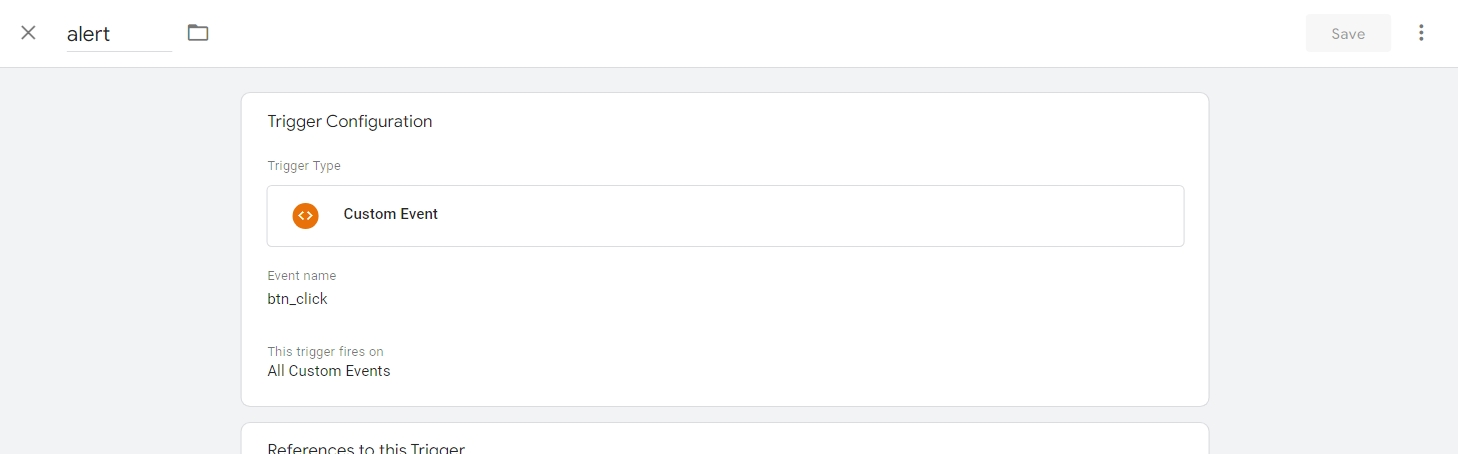
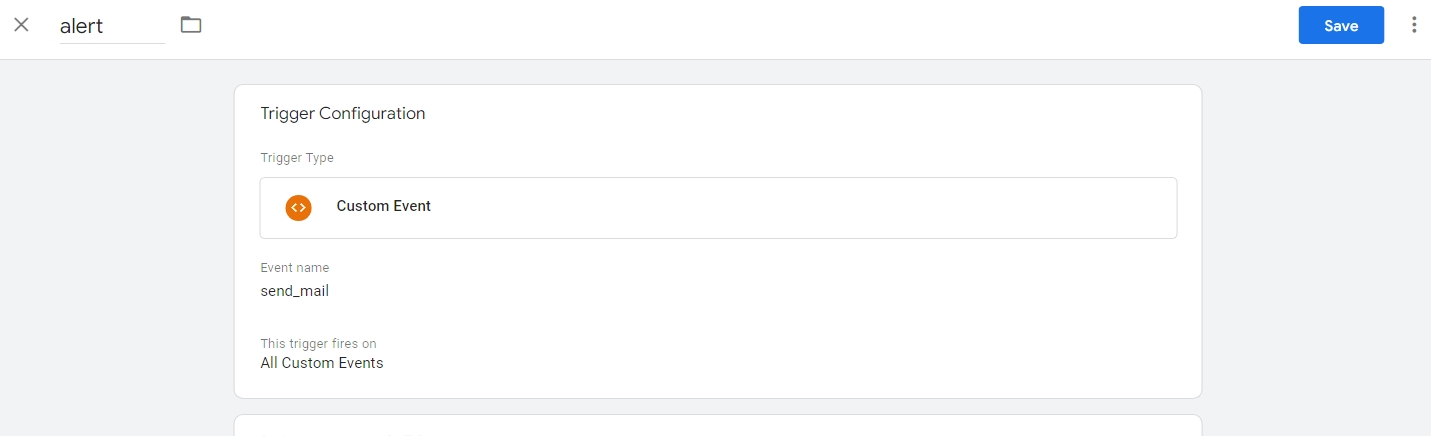
updated

diff --git a/docs/building-apps-guides/google-tag-manger.md b/docs/building-apps-guides/google-tag-manger.md
@@ -1,6 +1,6 @@
 ---
 sidebar_position: 1
-title: Data Insights with DronaHQ and Google Tag Manager Integration
+title: Google Tag Manager Integration
 ---
 
 import Image from '@site/src/components/Image'; import VersionedLink from '@site/src/components/VersionedLink'; import
@@ -8,9 +8,9 @@ Thumbnail from '@site/src/components/Thumbnail';
 
 In today's data-driven world, understanding user behavior is crucial for success. For low-code app developers using DronaHQ, integrating with Google Tag Manager (GTM) unlocks a treasure trove of user insights. This dynamic duo empowers you to track user interactions, optimize app experiences, and gain valuable data for informed decision-making.
 
-## Getting Started
 
-### Creating account in Google Tag Manger
+
+## Creating account in Google Tag Manger
 
 1. Visit [Google Tag Manager](https://tagmanager.google.com/) and Sign in with your Google account.
 2. If you're new to GTM, you'll see a button to `Create Account.` Click that.
@@ -31,7 +31,7 @@ That's it! Once you have your account and container set up, you can start adding
 </figure>
 
 
-### Integrating Google Tag Manager with DronaHQ Apps 
+## Integrating Google Tag Manager with DronaHQ Apps 
 
 Adding Google Tag Manager (GTM) to your DronaHQ app is a straightforward process:
 
@@ -45,16 +45,64 @@ Adding Google Tag Manager (GTM) to your DronaHQ app is a straightforward process
   <figcaption align = "center"><i>Installing GTM scripts in a DronaHQ App</i></figcaption>
 </figure>
 
-## Understanding Tags and Triggers Google Tag Manager
+#### Tags and Triggers (GTM)
 
 GTM presents an array of tags tailored to specific tracking needs. GTM like a toolbox for website/app tracking.
 * Tags: These are the tools themselves. GTM offers various tags for different tracking needs, such as Google Analytics, Google Ads, or custom HTML tags.
 * Triggers: These act like the triggers on those tools. They define when a specific tag fires (activates) to collect data. Common triggers track events like page views, app initialization, button clicks, form submissions, or video plays.
 
-### Triggering a Custom HTML tag from the App
 
-#### Custom HTML Tag Configuration:
-To initiate this custom event, we'll start by crafting a tag configuration with a custom HTML snippet in Google Tag Manager.
+DronaHQ supports both custom and default events of GTM, enhancing its versatility for various tracking requirements.
+
+### Triggering Default Event from the App
+
+This example demonstrates setting up a Custom HTML tag in Google Tag Manager (GTM) to display a simple message on every page load. The tag will be triggered by the built-in All Pages trigger.
+
+#### Tag Configuration:
+From `Tags > New > Tag Configuration > Custom HTML (custom)`:
+
+```html
+<script>
+  alert("The changes made will be in real-time affect")
+</script>
+```
+
+<figure>
+  <Thumbnail src="/img/building-apps-guides/google-tag-manager/google-tag-manager-tag2.jpeg" alt="Custom HTML Tag" />
+  <figcaption align = "center"><i>Custom HTML Tag</i></figcaption>
+</figure>
+
+#### All Pages Trigger:
+Next, we'll establish a trigger to ensure our custom HTML tag fires on every page load. We'll leverage the built-in trigger type of All Pages.
+
+In GTM, navigate to Triggers and click New, and under Trigger Configuration, select All Pages.
+This pre-configured trigger automatically fires whenever a page loads on your website, making it ideal for tracking events that occur on all pages.
+
+
+<figure>
+  <Thumbnail src="/img/building-apps-guides/google-tag-manager/google-tag-manager-trigger2.jpeg" alt="Custom Event Trigger" />
+  <figcaption align = "center"><i>Custom Event Trigger</i></figcaption>
+</figure>
+
+
+:::info NOTE
+Make sure to Submit your GTM changes to be made effective in the app.
+:::
+
+####  Bringing It All Together:
+
+<figure>
+  <Thumbnail src="/img/building-apps-guides/google-tag-manager/google-tag-manager-example2.png" alt="GTM tag in use." />
+  <figcaption align = "center"><i>GTM tag in use.</i></figcaption>
+</figure>
+
+With the Custom HTML tag and All Pages trigger configured, whenever a dashboard page loads or updates in real-time, the tag will be triggered, and your chosen notification method will be displayed.
+
+### Triggering a Custom Event from the App
+
+Let's explore the process of triggering a custom GTM tag directly from the DronaHQ App. We'll set up a Custom HTML tag within GTM and configure it with a Custom Event trigger, ensuring it activates from within our application.
+
+#### Tag Configuration:
 From `Tags > New > Tag Configuration > Custom HTML (custom)`:
 
 ```html
@@ -70,7 +118,7 @@ From `Tags > New > Tag Configuration > Custom HTML (custom)`:
 </figure>
 
 #### Custom Event Trigger:
-Next, we'll establish a trigger to activate our custom event. We'll utilize a trigger type of Custom Events with the event name `btn_click`, set to fire on all custom events.
+Next, we'll establish a trigger to activate our custom event. We'll utilize a trigger type of Custom Events with the event name `sent_mail`, set to fire on all custom events.
 
 <figure>
   <Thumbnail src="/img/building-apps-guides/google-tag-manager/google-tag-manager-trigger1.jpeg" alt="Custom Event Trigger" />
@@ -83,7 +131,7 @@ Now, let's apply this custom event within the DronaHQ lead generation app. Suppo
 ```javascript
 function JSCode(output) {
   if (window.dataLayer) {
-    window.dataLayer.push({'event': 'btn_click'});
+    window.dataLayer.push({'event': 'sent_mail'});
   }
   return output;
 }
@@ -94,64 +142,16 @@ function JSCode(output) {
   <figcaption align = "center"><i>Adding action flow</i></figcaption>
 </figure>
 
-#### Bringing It All Together:
-Imagine a user interacts with the lead generation app, triggering the button click action. This event then activates the custom HTML tag configuration within GTM, prompting the "Mail Sent!" alert. Simultaneously, the custom event trigger is fired, capturing the event data and allowing for further analysis of user interactions.
-
-
-### Data Insights from the app to Google Analytics
-
-Now that you've integrated GTM with your DronaHQ app, let's explore how to track specific user interactions using custom events. This allows you to analyze valuable data about how users engage with your app.
-
-#### Google Analytics GA4 Event: Tag Configuration
-
-
-To create the required tag, we'll start by crafting a tag configuration of Google Analytics GA4 Event in Google Tag Manager.
-From `Tags > New > Tag Configuration > Google Analytics GA4 Event`:
-
-   - Measurement ID: Enter your GA4 property's Measurement ID (found in your GA4 settings).
-   - Event Name: Give your custom event a clear and descriptive name (e.g., `button_click`). This helps you understand what the event represents in your reports.
-   - Event Parameters (Optional): Add additional details to enrich your data. For instance, if the event tracks a button click, you could include a parameter like `button_text` with the actual button text.
-
-
-<figure>
-  <Thumbnail src="/img/building-apps-guides/google-tag-manager/google-tag-manager-ga4.jpeg" alt="Adding Google Analytics GA4 Event" />
-  <figcaption align = "center"><i>Adding Google Analytics GA4 Event</i></figcaption>
-</figure>
-
-
-:::caution IMPORTANT
-
-Ensure that you've established a data stream from Google Analytics via its administrative section. During the setup process for the data stream, you'll be prompted to furnish the website link corresponding to your DronaHQ app.
-
-To procure this link, first, `Publish` your app, and then retrieve its public URL. Navigate to the console of your app where you'll discover an `iframe` tag containing a URL similar to: `https://microapp.dronahq.com/prod/your_app_name/index.html`
-
-
-
-<figure>
-  <Thumbnail src="/img/building-apps-guides/google-tag-manager/google-tag-manager-analyticsDetails.jpeg" alt="Google Analytics Data Stream Details" />
-  <figcaption align = "center"><i>Google Analytics Data Stream Details</i></figcaption>
-</figure>
-
-Simply copy this URL and designate it as the `Stream URL` for your Google Analytics data stream.
+:::info NOTE
+Make sure to publish your app after applying any changes.
 :::
 
-#### Custom Event Trigger:
-
-Next, we'll establish a trigger to activate our custom event. We'll utilize a trigger type of Custom Events with the event name `send_info`, set to fire on all custom events.
-
-
-#### Practical Implementation in DronaHQ:
-Now, let's apply this custom event within the DronaHQ lead generation app. Suppose we've incorporated a JavaScript code block action tied to a button click event:
-
-```javascript
-function JSCode(output) {
-  if (window.dataLayer) {
-    window.dataLayer.push({'event': 'send_info'});
-  }
-  return output;
-}
-```
-
 #### Bringing It All Together:
 
-Imagine a scenario where a user engages with a travel website, specifically interacting with a form labeled "send_info." Upon completing and submitting this form, the website processes the provided information, potentially sending an email confirmation to the user. Concurrently, a custom event is triggered, capturing the user's interaction with the "send_info" form. This captured event data serves as valuable insight, enabling analysis of user engagement patterns and preferences on the travel website.
+<figure>
+  <Thumbnail src="/img/building-apps-guides/google-tag-manager/google-tag-manager-example1.png" alt="GTM tag in use." />
+  <figcaption align = "center"><i>GTM tag in use.</i></figcaption>
+</figure>
+
+Imagine a user interacts with the lead generation app, triggering the button click action. This event then activates the custom HTML tag configuration within GTM, prompting the "Mail Sent!" alert. 
+
